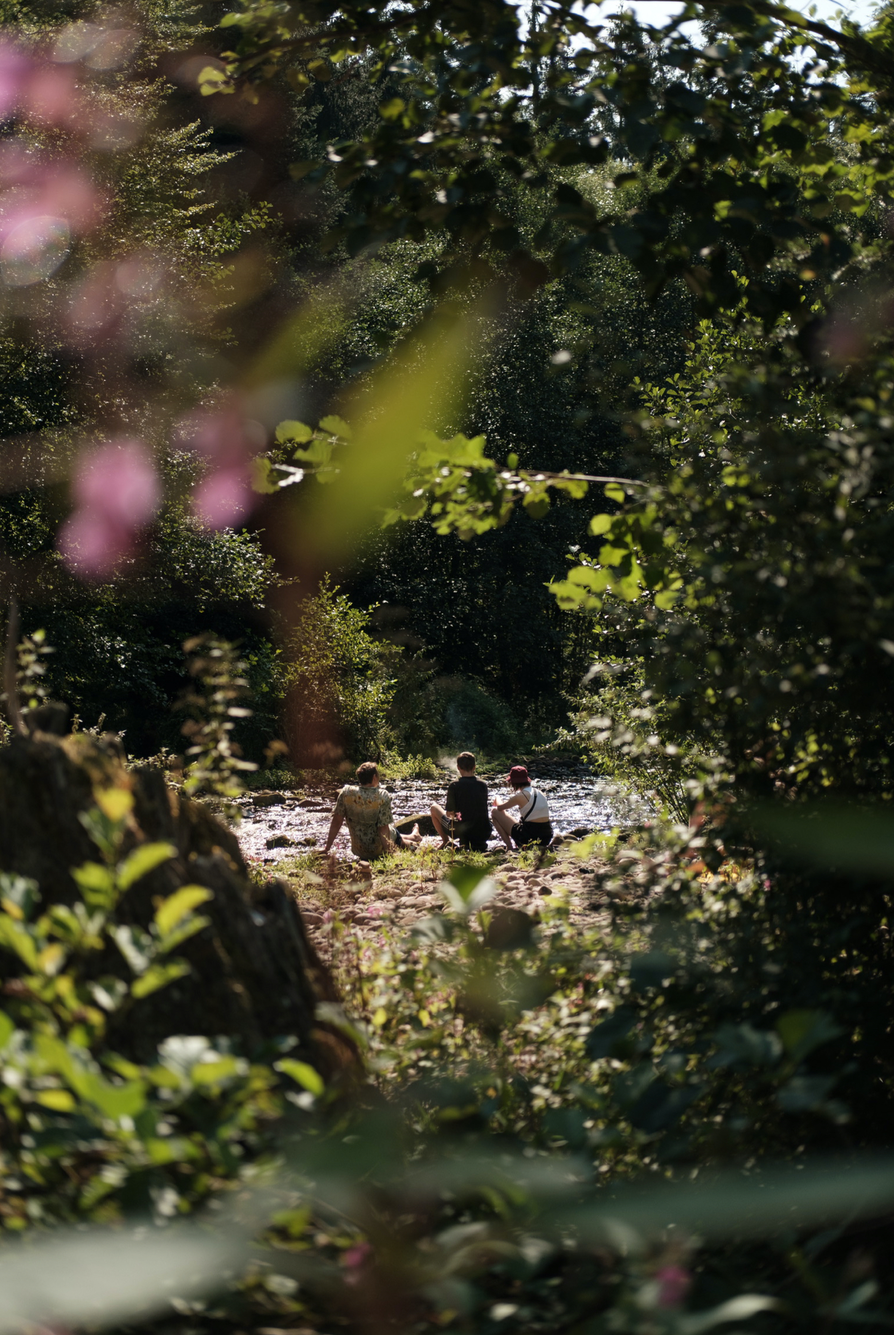
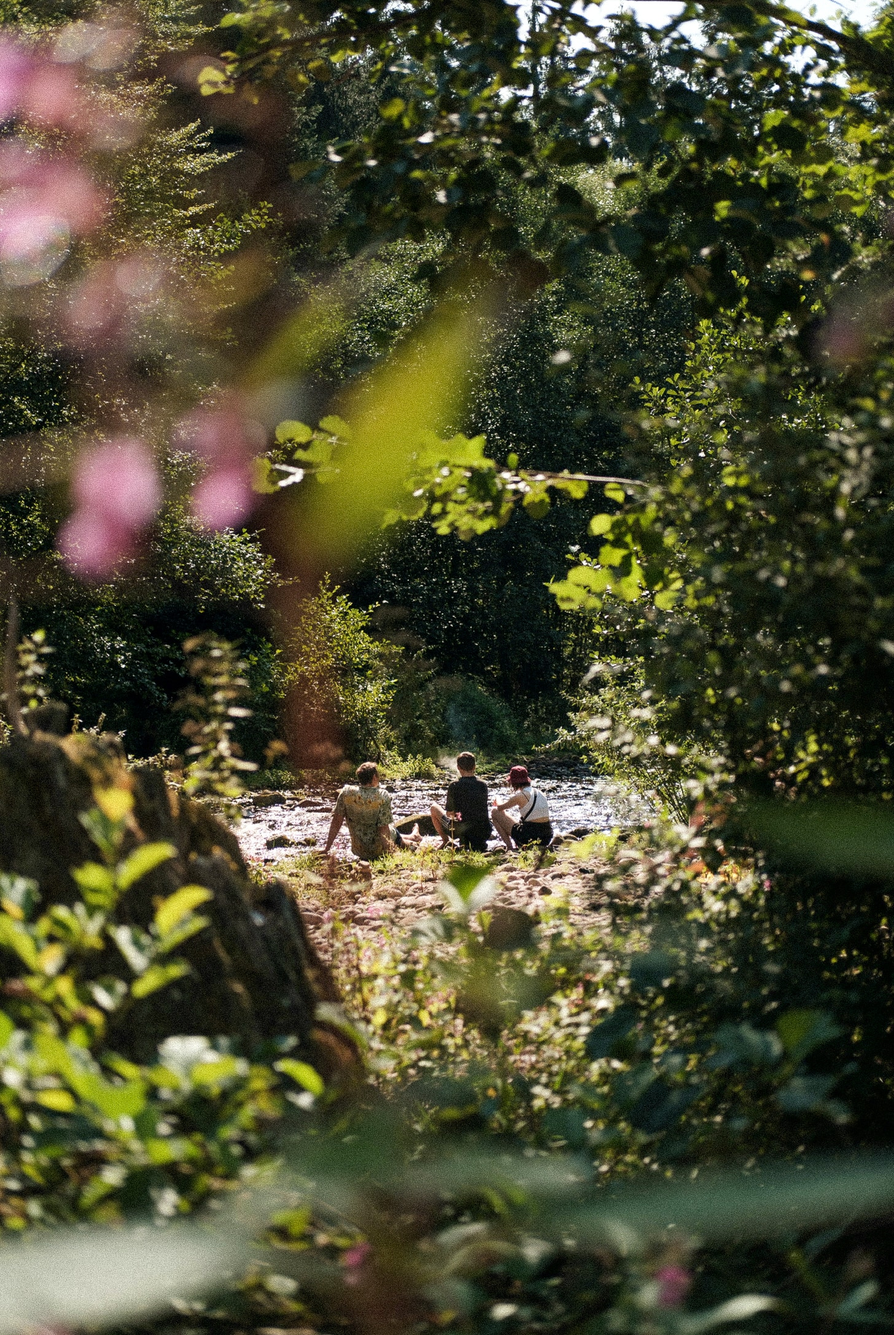
Submitted Page Styled + ImageOptim

diff --git a/src/pages/submitted.js b/src/pages/submitted.js
@@ -5,16 +5,17 @@ import FormButton from "../components/buttons/FormButton"
 import Layout from "../components/layout/layout"
 import SEO from "../components/layout/seo"
 import ShopTitle from "../components/shopping/ShopTitle"
+import SubmittedImage from "../../static/images/Submitted.jpg"
 
 export default function Submitted() {
   return (
     <Layout>
       <SEO title="Submitted" />
-      <ShopTitle
-        info="Wouhuuuu! 🚀"
-        title="Wir haben deine Reservierung erhalten."
-      />
       <Container>
+        <ShopTitle
+          info="Wouhuuuu! 🚀"
+          title="Wir haben deine Reservierung erhalten"
+        />
         <Wrapper>
           <Section>
             <Info>
@@ -25,18 +26,17 @@ export default function Submitted() {
             </Info>
             <Info>
               Sobald du überwiesen hast schicken wir dir eine
-              Zahlungsbestätigungsmail. Auch hier gilt: Falls keine Mail kommt
-              einfach melden.
+              Zahlungsbestätigungsmail.
             </Info>
             <br />
             <Info>
               Wir freuen uns schon auf dich, <br />
-              dein Klein und Haarig Team.
+              dein Klein und Haarig Team ✨
             </Info>
           </Section>
           <ButtonSection>
             <Link to="/">
-              <FormButton label="Zurueck zur Homepage"></FormButton>
+              <FormButton label="Zurück zur Homepage"></FormButton>
             </Link>
           </ButtonSection>
         </Wrapper>
@@ -49,7 +49,12 @@ const Container = styled.div`
   display: grid;
   grid-template-columns: 1fr;
   justify-items: center;
-  /* background: white; */
+  background: blue;
+  background-image: url(${SubmittedImage});
+  background-size: cover;
+  border: solid black;
+  border-width: 40px 40px 0px 40px;
+  /* text-align: center; */
   padding: 10px 20px 200px 20px;
 `
 
